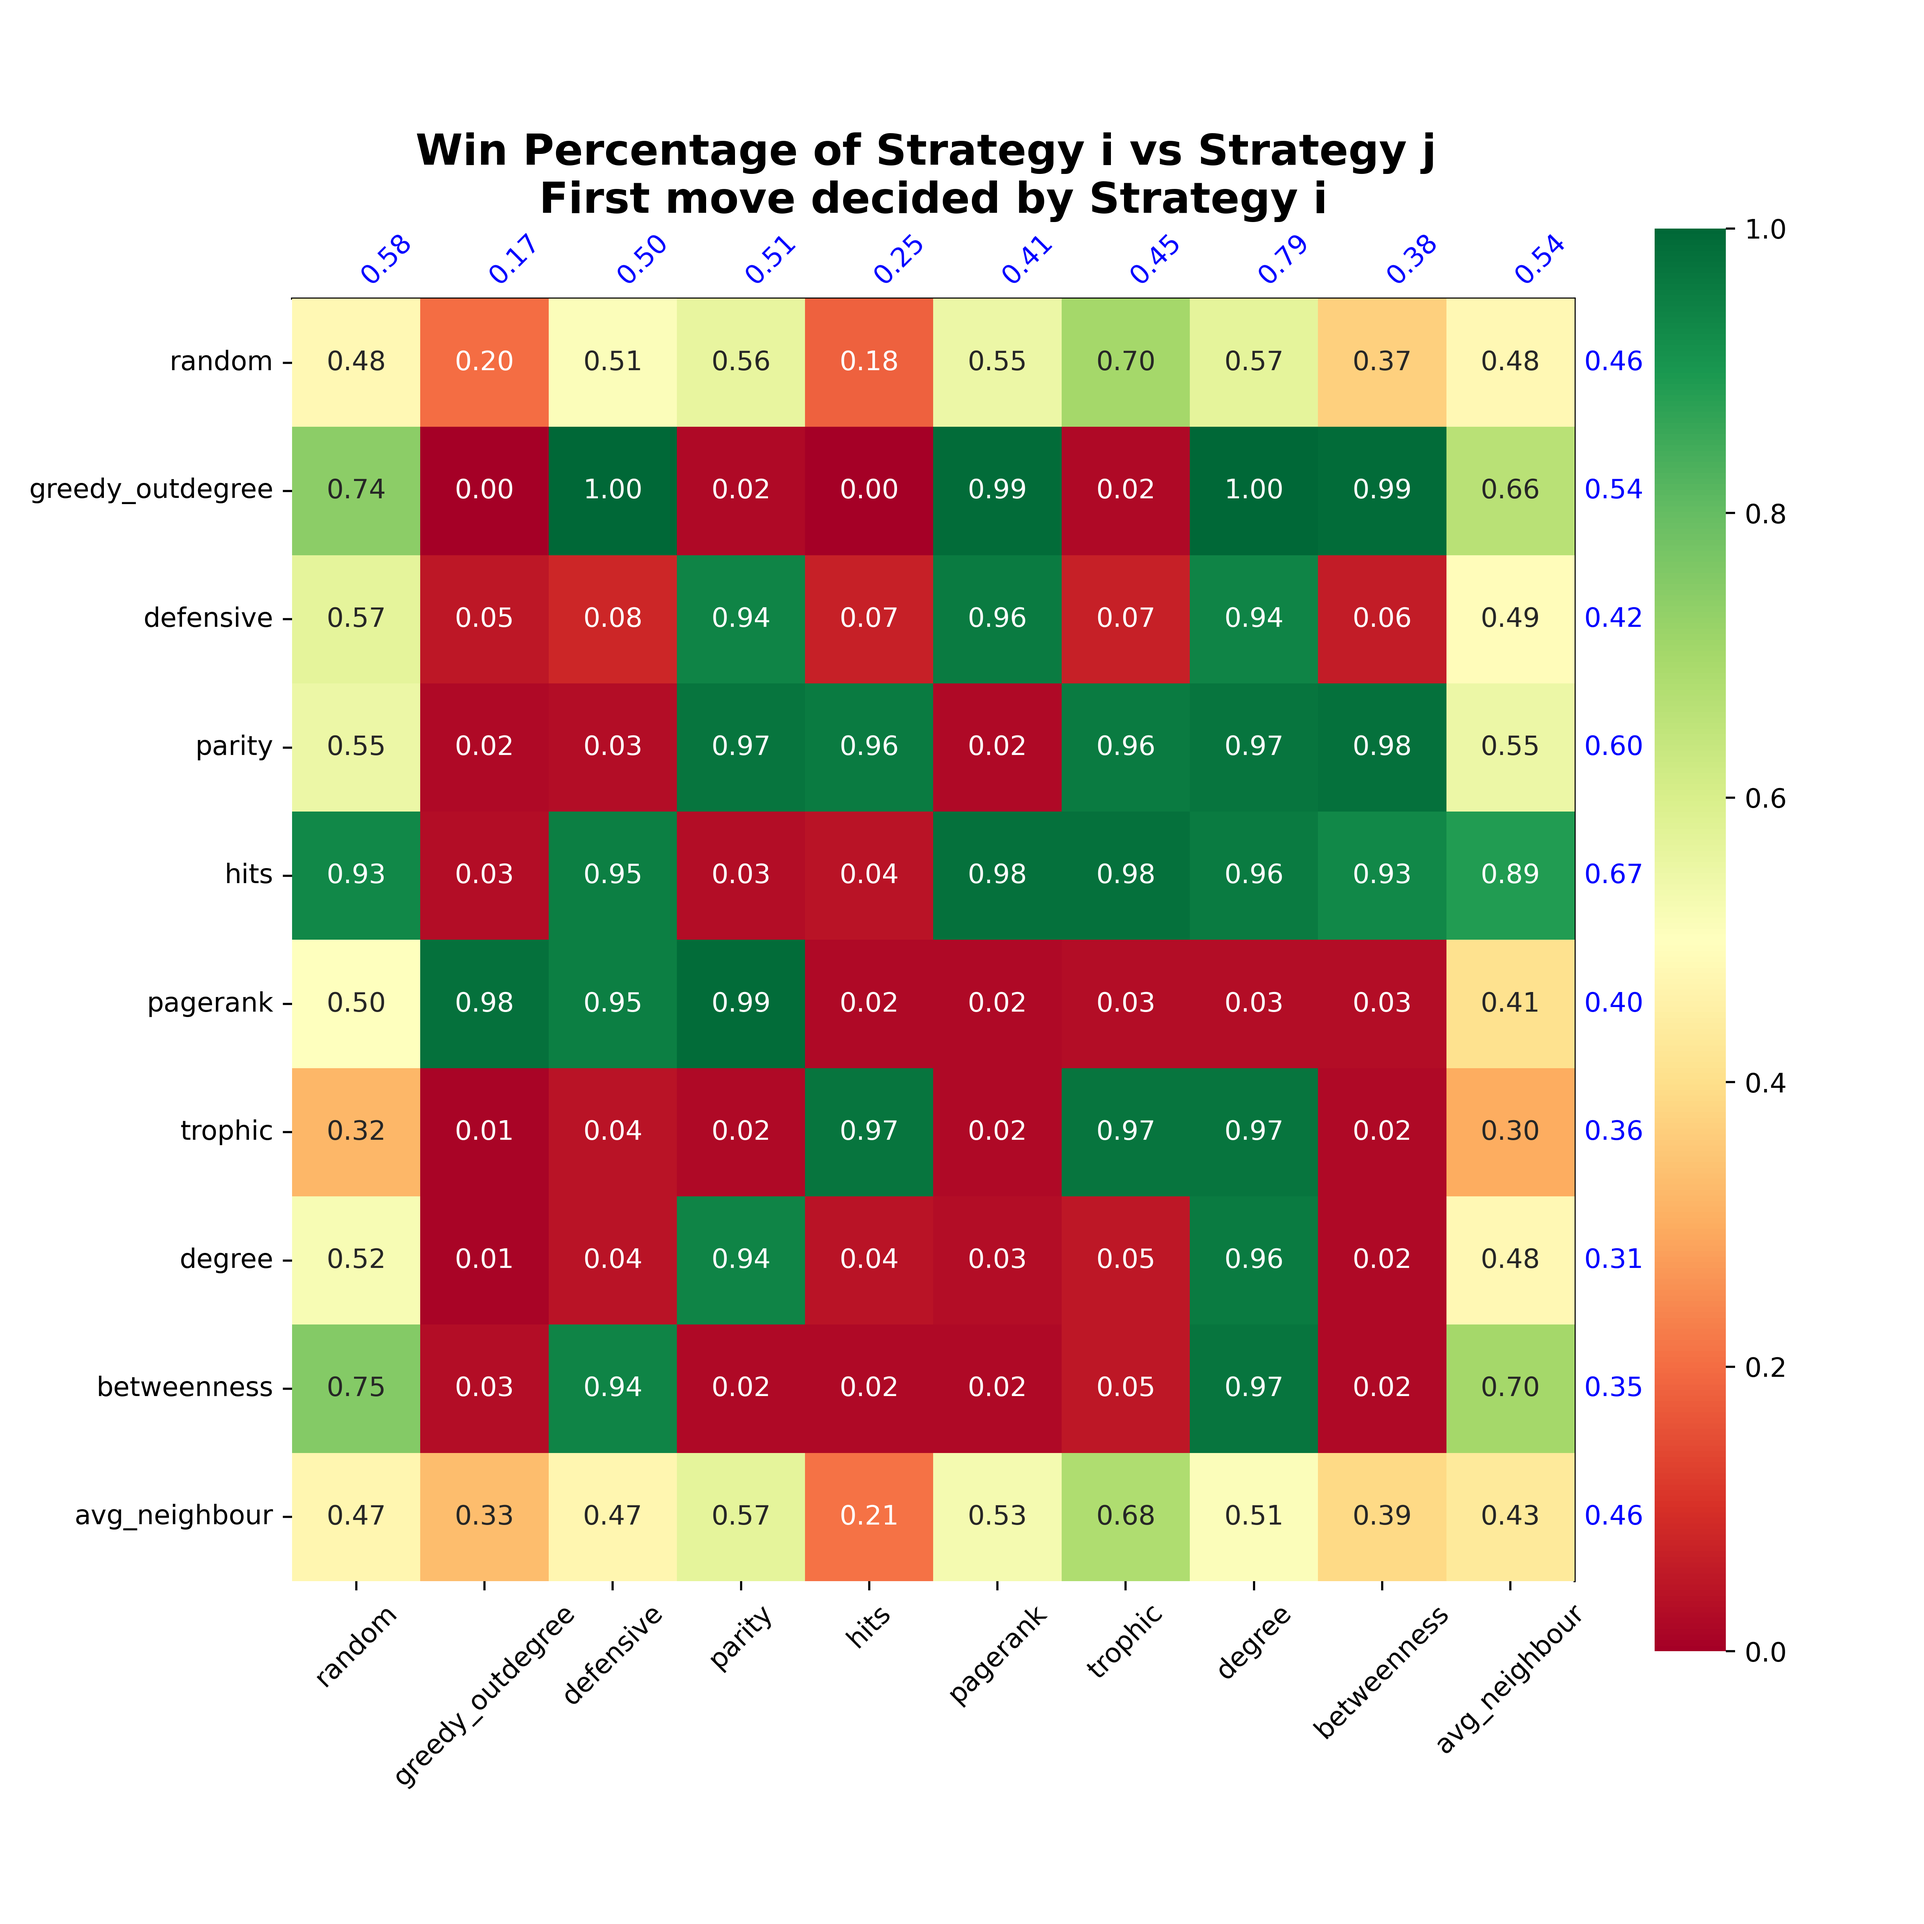
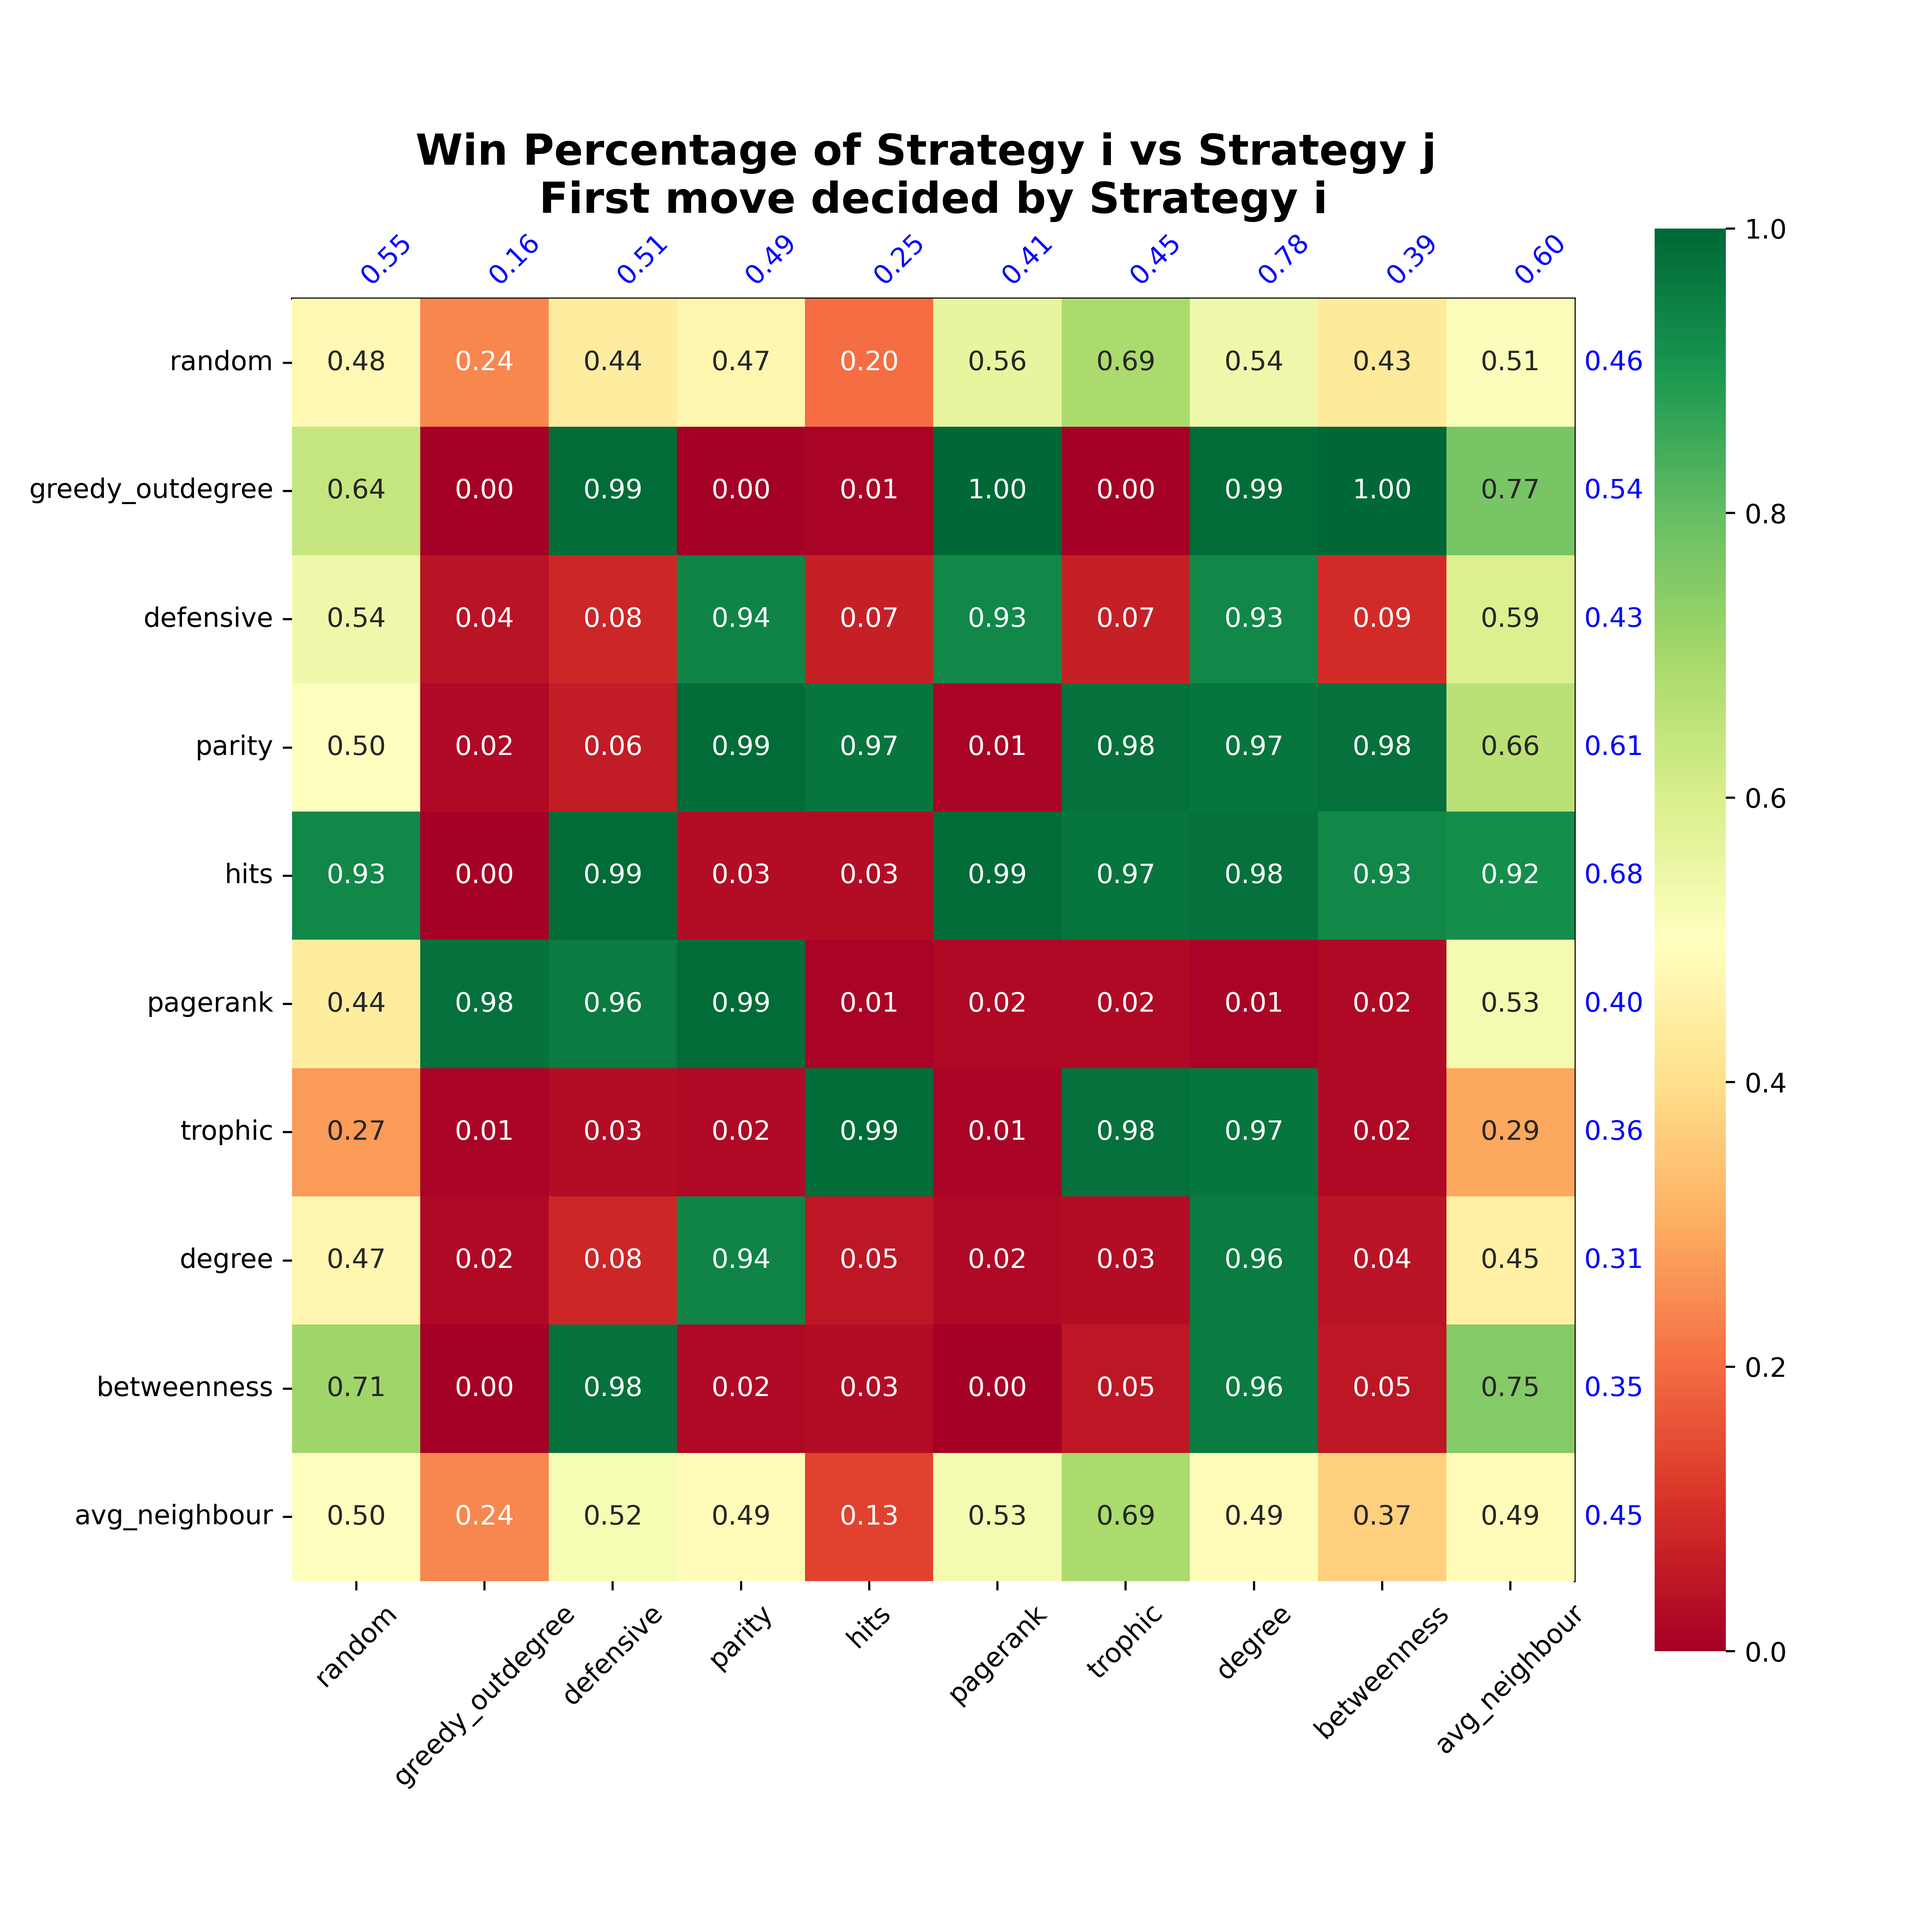
Add features

diff --git a/code/game/atlas.py b/code/game/atlas.py
@@ -1,6 +1,6 @@
 import random
 from collections import defaultdict
-from concurrent.futures import ThreadPoolExecutor
+from concurrent.futures import ProcessPoolExecutor
 from pathlib import Path
 
 import matplotlib.pyplot as plt
@@ -30,7 +30,7 @@ class ATLASGame:
         self.game_history = []
 
         self.parity_adv = self._safe_load(
-            "code/analysis/parity/country_parity_adv.csv",
+            f"code/analysis/parity/{self.mode.lower()}_parity_adv.csv",
             f"{self.mode.capitalize()}Parity",
         )
         self.hits_adv = self._safe_load(
@@ -113,9 +113,15 @@ class ATLASGame:
             return False, "Invalid place."
         if place in self.used_places:
             return False, "Place already used."
-        if self.current_place:
-            if place[0].upper() != self.current_place[-1].upper():
-                return False, "Invalid starting letter."
+        if self.current_place is not None:
+            try:
+                if place[0].upper() != self.current_place[-1].upper():
+                    return False, "Invalid starting letter."
+            except:
+                print(place)
+                print(self.current_place)
+                print(self.game_history)
+                raise Exception("Invalid starting letter." + place + self.current_place)
 
         self.used_places.add(place)
         self.game_history.append((self.current_player, place))
@@ -298,19 +304,41 @@ def main():
     # ----------------------
     # Load country list
     # ----------------------
-    try:
-        countries = (
-            pd.read_csv("data/countries.csv", header=0)["Country"].dropna().tolist()
-        )
-    except Exception as e:
-        print("Failed to load country list:", e)
-        sys.exit(1)
 
     mode = input("Enter game mode (Country/City/Combined): ").strip().capitalize()
     if mode not in ["Country", "City", "Combined"]:
         print("Invalid game mode. Defaulting to Country.")
         mode = "Country"
-    game = ATLASGame(countries, mode)
+
+    if mode == "City":
+        try:
+            cities = pd.read_csv("data/cities.csv", header=0)["City"].tolist()
+            game = ATLASGame(cities, mode)
+        except Exception as e:
+            print("Failed to load city list:", e)
+            sys.exit(1)
+    elif mode == "Combined":
+        try:
+            countries = pd.read_csv("data/countries.csv", header=0).rename(
+                columns={"Country": "Name"}
+            )
+            cities = pd.read_csv("data/cities.csv", header=0).rename(
+                columns={"City": "Name"}
+            )
+            combined = pd.concat([countries, cities])["Name"].tolist()
+            game = ATLASGame(combined, mode)
+        except Exception as e:
+            print("Failed to load country or city list:", e)
+            sys.exit(1)
+    else:
+        try:
+            countries = pd.read_csv("data/countries.csv", header=0)["Country"]
+            game = ATLASGame(countries, mode)
+        except Exception as e:
+            print("Failed to load country list:", e)
+            sys.exit(1)
+
+    # game = ATLASGame(countries, mode)
 
     strategies = [
         "random",
@@ -438,13 +466,12 @@ def main():
             for i, strat1 in enumerate(strategies):
                 for j, strat2 in enumerate(strategies):
                     p1_wins = 0
-                    wins = []
-                    with ThreadPoolExecutor() as executor:
-                        wins = executor.map(
-                            game.simulate_game, [strat1] * 100, [strat2] * 100
-                        )
-                    wins = [1 if w == 1 else 0 for w in wins]
-                    p1_wins = sum(wins)
+
+                    for _ in range(100):
+                        winner = game.simulate_game(strat1, strat2)
+                        if winner == 1:
+                            p1_wins += 1
+
                     print(f"{strat1} vs {strat2}")
                     print(f"Player 1 wins: {p1_wins}/100 ({p1_wins/100*100:.1f}%)")
                     print(
@@ -514,7 +541,7 @@ def main():
                 fontweight="bold",
             )
             fig.tight_layout()
-            fig.savefig("code/game/win_matrix.png")
+            fig.savefig(f"code/game/{mode}_win_matrix.png")
         # -------------------------------------------------
         # 6. Exit
         # -------------------------------------------------
